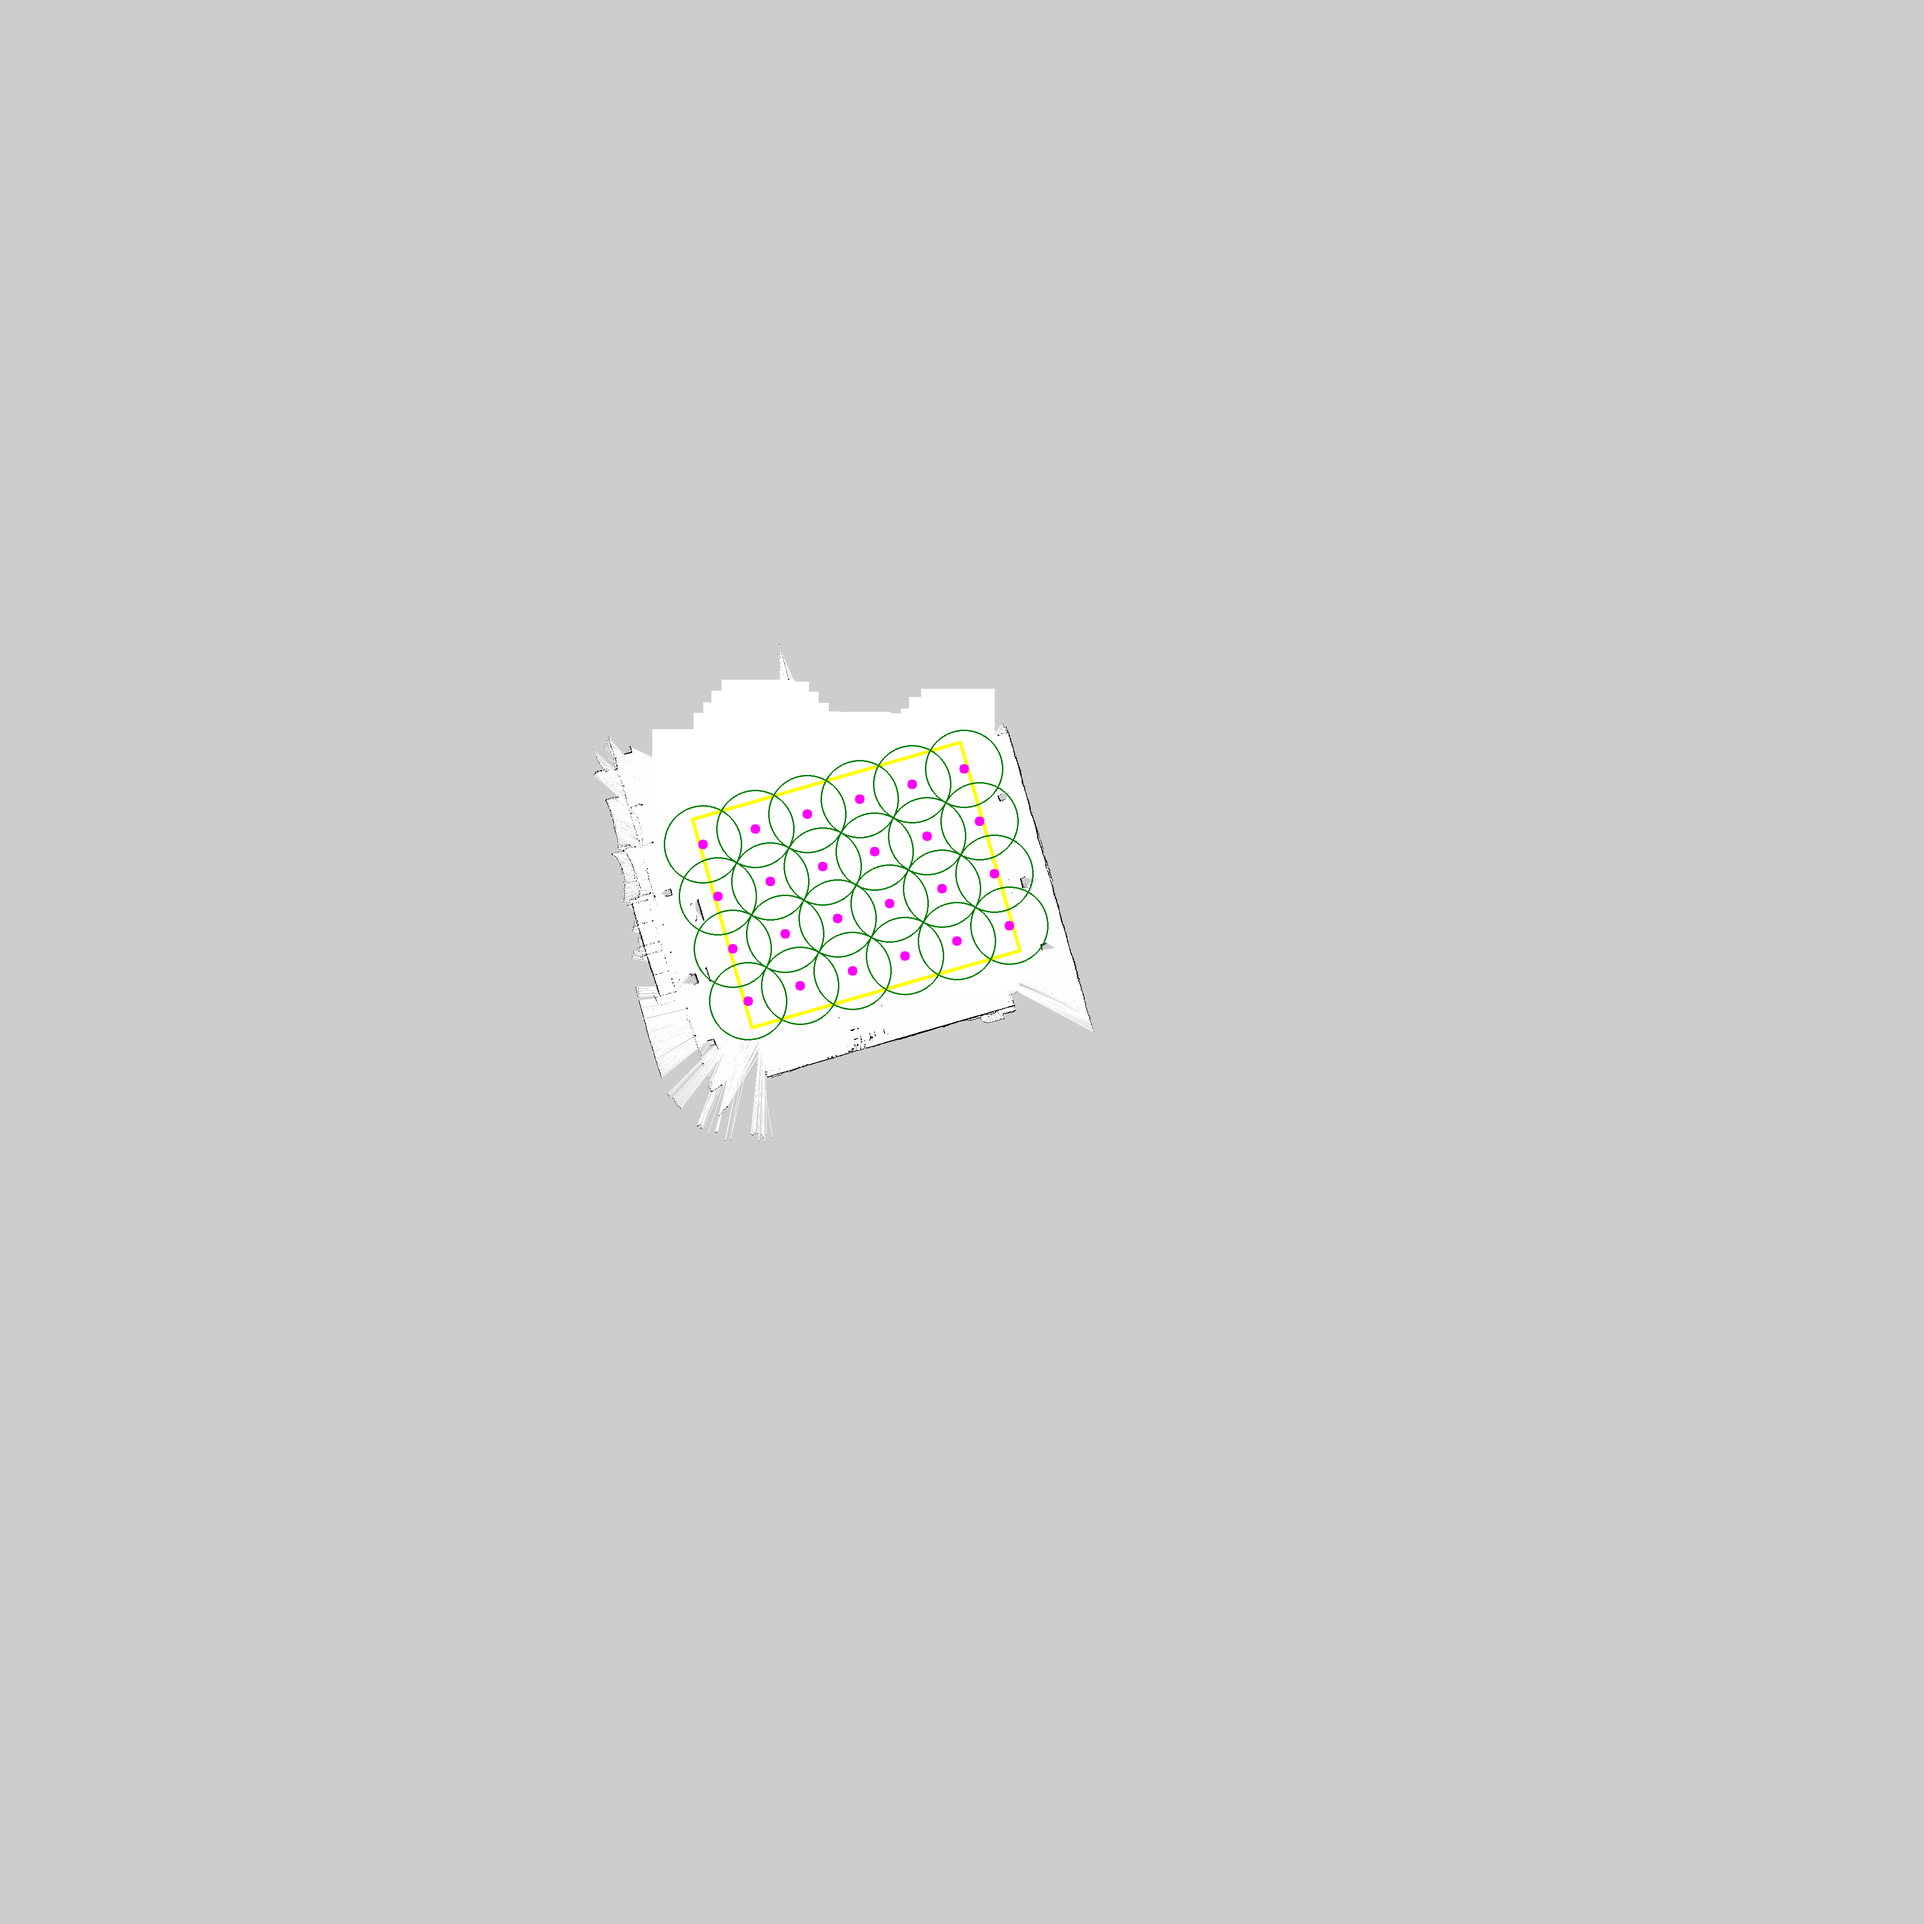
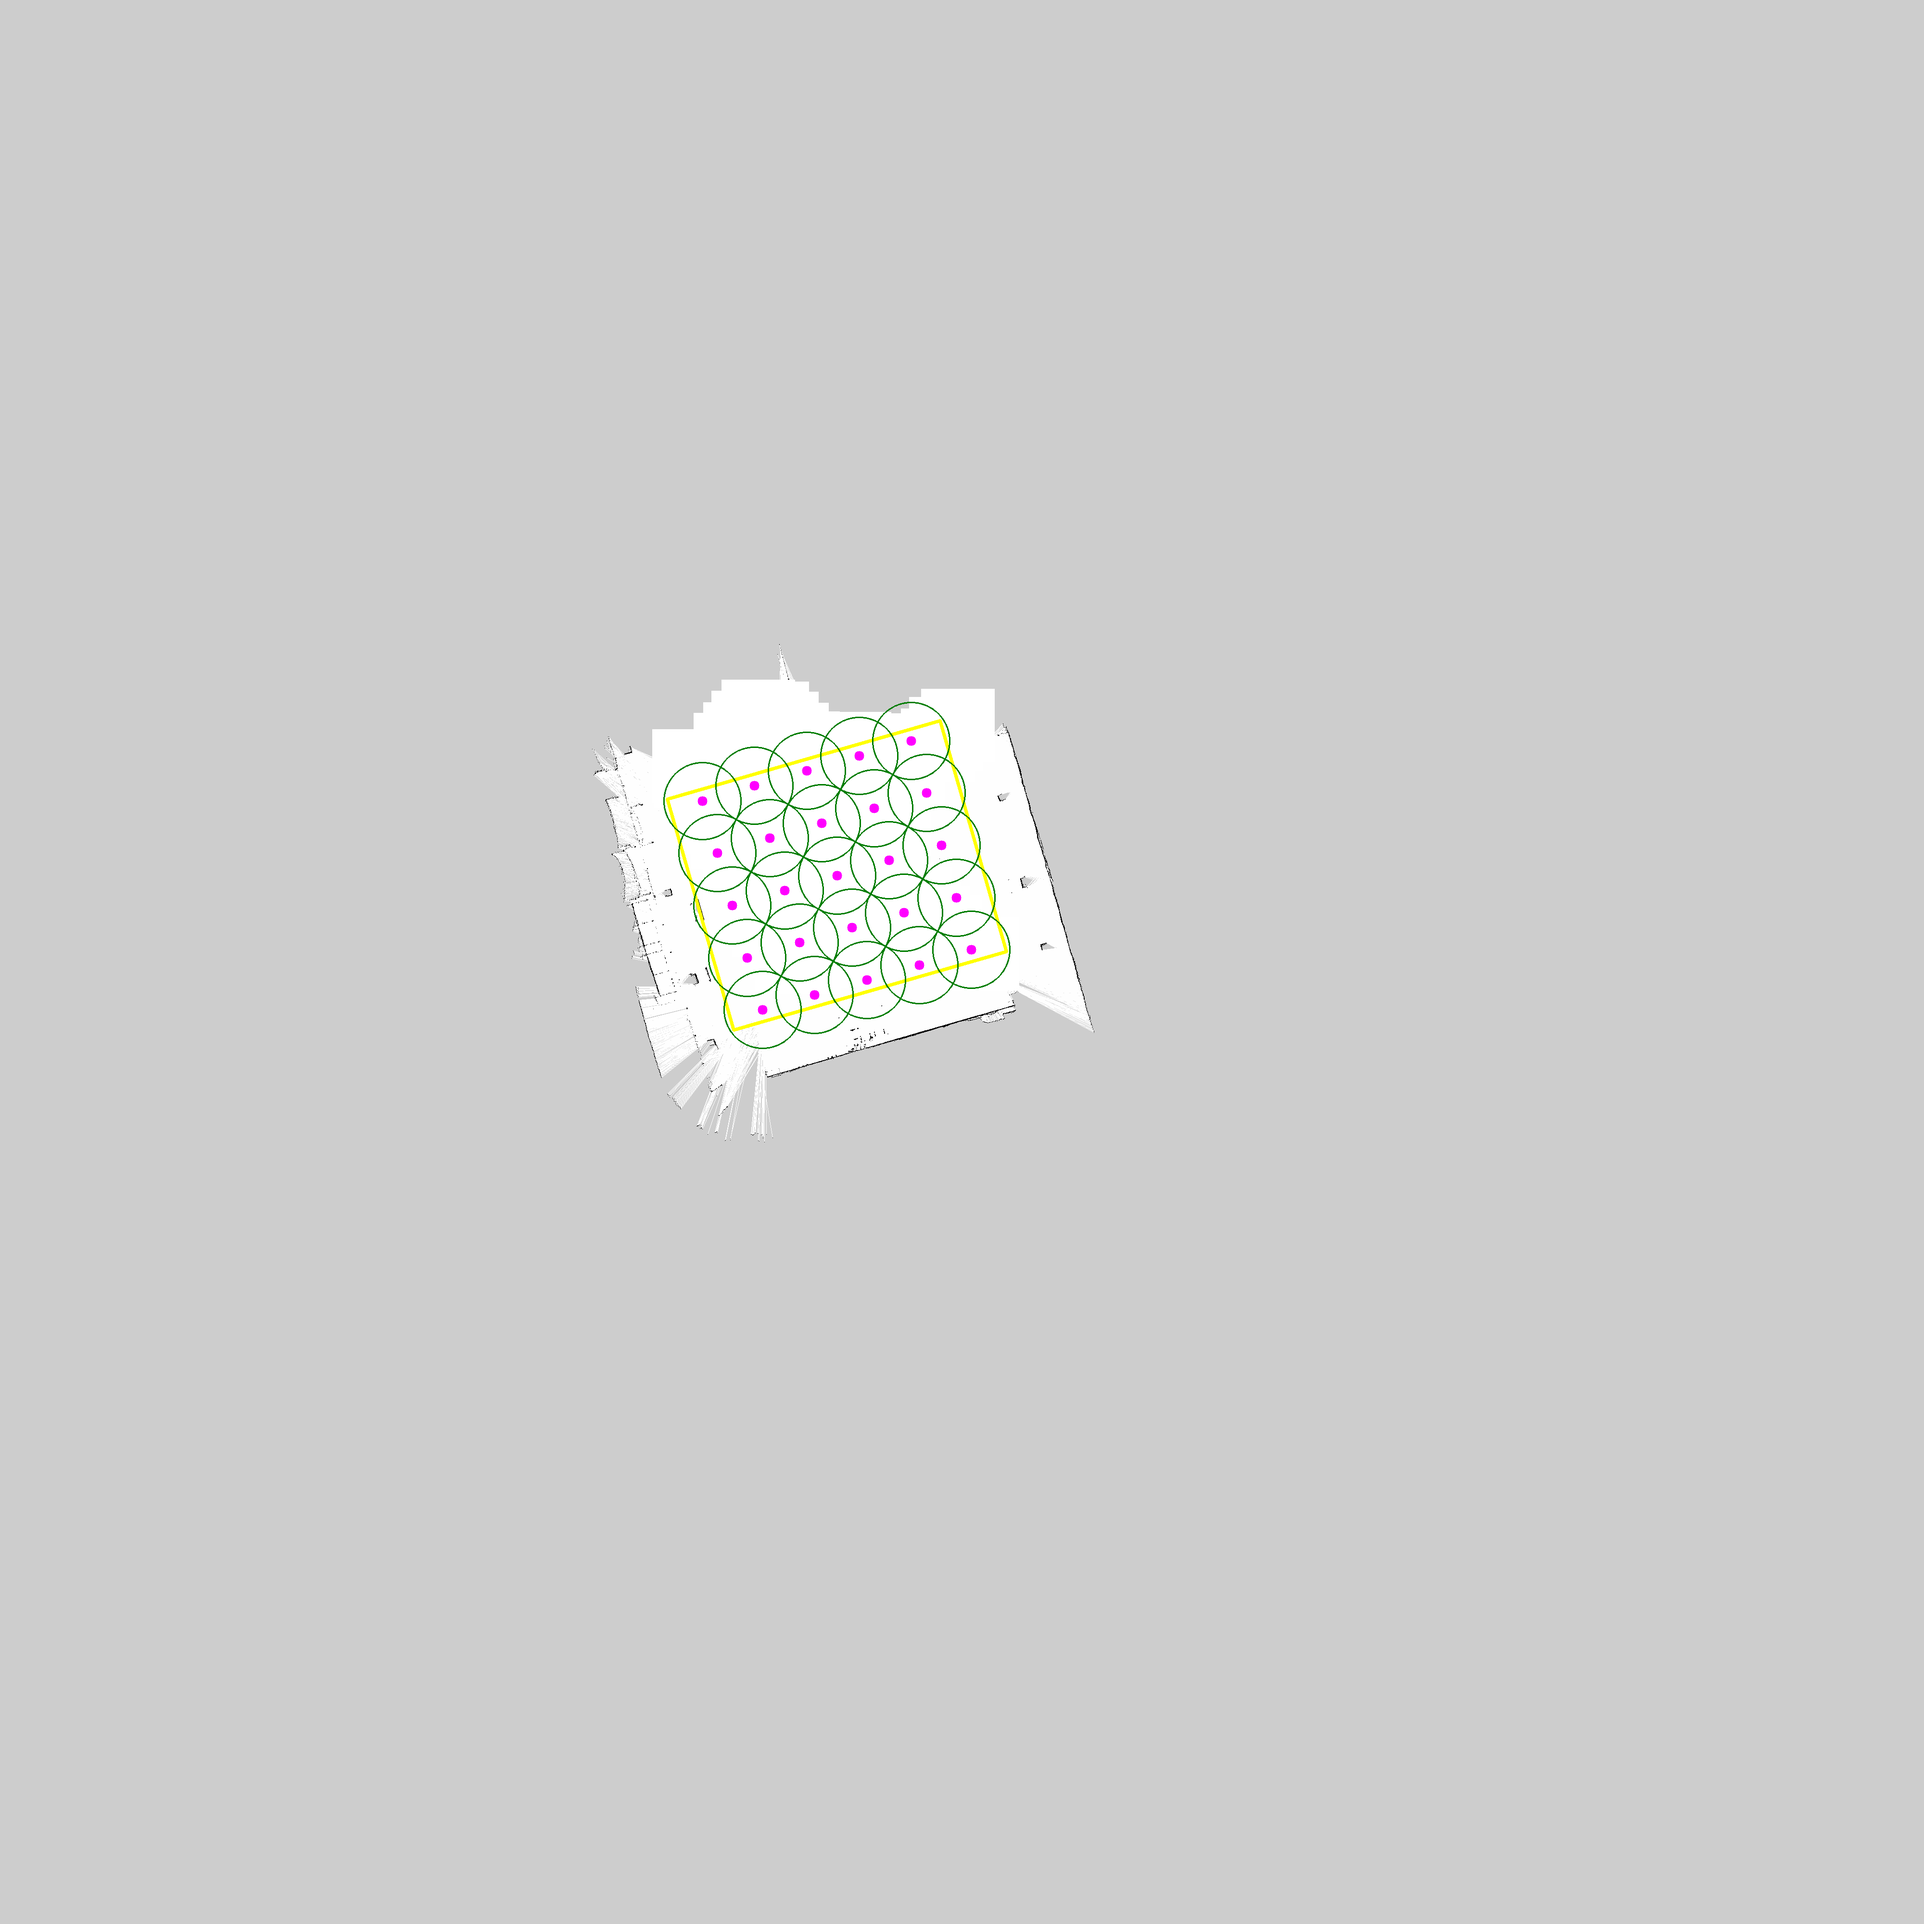
map boundary

Changed region(s): [[0.3438, 0.375, 0.5312, 0.5312]]

diff --git a/sensor_control/scripts/mapPrep.py b/sensor_control/scripts/mapPrep.py
@@ -124,8 +124,8 @@ if __name__ == "__main__":
         img = cv2.line(img, br, bl, colour, lineWidth)
         img = cv2.line(img, bl, tl, colour, lineWidth)
         
-        nWaypointsX = int(((boxW-0.01)/(2*diagMaxObservableDistance)) + 1) 
-        nWaypointsY = int(((boxH-0.01)/(2*diagMaxObservableDistance)) + 1) 
+        nWaypointsX = int(((boxW-2)/(2*diagMaxObservableDistance)) + 1) 
+        nWaypointsY = int(((boxH-2)/(2*diagMaxObservableDistance)) + 1) 
 
         xOffset = (((2*diagMaxObservableDistance) * nWaypointsX) - boxW) / 2
         yOffset = (((2*diagMaxObservableDistance) * nWaypointsY) - boxH) / 2
